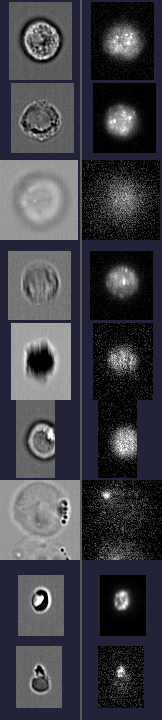
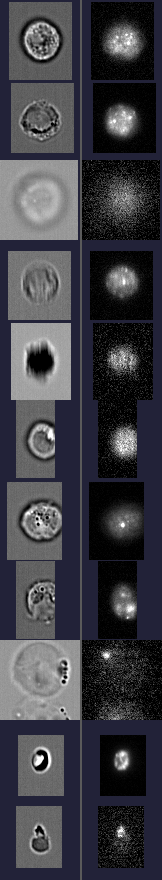
Clearer cut-off rule: a highlighted note on the examples page and two more cut-off examples (a sliver and part of a cell)

diff --git a/index.html b/index.html
@@ -82,6 +82,7 @@ input[type=text] { font: inherit; width: 100%; padding: 12px 14px; border-radius
 /* guide and leaderboard */
 .page { display: flex; flex-direction: column; gap: 14px; min-height: 0; flex: 1; }
 .scroll { flex: 1; min-height: 0; overflow-y: auto; display: grid; align-content: start; gap: 10px; padding-bottom: 4px; }
+.note { background: color-mix(in srgb, var(--toss) 10%, var(--surface)); border: 1px solid color-mix(in srgb, var(--toss) 40%, var(--line)); border-radius: 12px; padding: 10px 14px; font-size: 0.92rem; line-height: 1.35; }
 .ex { display: grid; grid-template-columns: 58% 1fr; gap: 12px; align-items: center; background: var(--surface); border: 1px solid var(--line); border-radius: 14px; padding: 8px; }
 .ex p { font-size: 0.92rem; line-height: 1.3; display: flex; flex-direction: column; gap: 6px; align-items: flex-start; }
 .board { display: grid; gap: 6px; list-style: none; margin: 0; padding: 0; counter-reset: rank; }
@@ -152,7 +153,7 @@ input[type=text] { font: inherit; width: 100%; padding: 12px 14px; border-radius
     <p class="muted">One cell at a time from an imaging flow cytometer: brightfield on the left, fluorescence (DNA damage foci) on the right. Swipe the card or tap the buttons. Pinch to zoom.</p>
     <div class="rules">
       <span class="chip keep">Keep →</span><span>A single whole cell, sharp and in focus.</span>
-      <span class="chip toss">← Toss</span><span>Blurry or streaked, cut off, two cells, a bead or debris.</span>
+      <span class="chip toss">← Toss</span><span>Blurry or streaked, cut off by the edge of the image, two cells, a bead or debris.</span>
       <span class="chip unsure">↑ Not sure</span><span>You really can't decide.</span>
     </div>
     <form class="field" id="nameForm">
@@ -166,7 +167,8 @@ input[type=text] { font: inherit; width: 100%; padding: 12px 14px; border-radius
 
   <section class="page" id="guide" hidden>
     <h1>What you'll see</h1>
-    <p class="muted">Judge the whole image. A cell that's cut off or stuck to another one gets tossed even when it's sharp. Some cards show the brightfield alone; judge those from the brightfield. Every cell comes back once, flipped or turned; just answer it again.</p>
+    <p class="muted">Judge the whole image. Some cards show the brightfield alone; judge those from the brightfield. Every cell comes back once, flipped or turned; just answer it again.</p>
+    <p class="note"><strong>Cut off = toss, even when it's sharp.</strong> If any part of the cell runs off the edge of the image, whether a sliver or half of it, toss it. Dark blue areas are outside the camera's view: a cell that runs into one is cut off too.</p>
     <div class="scroll" id="examples"></div>
     <button class="go" type="button" id="beginBtn">Start labelling</button>
   </section>
@@ -248,6 +250,7 @@ input[type=text] { font: inherit; width: 100%; padding: 12px 14px; border-radius
   const GUIDE = [
     ["Sharp", "keep"], ["Sharp, irregular shape", "keep"], ["Out of focus: soft and hazy", "toss"],
     ["Streaked by motion", "toss"], ["Badly smeared", "toss"], ["Cut off at the edge, even if sharp", "toss"],
+    ["Only a sliver cut off: still toss", "toss"], ["Part of the cell runs off the image", "toss"],
     ["Two cells, or a clump", "toss"], ["Bead or dead cell", "toss"], ["Debris", "toss"],
   ];
   const CHEERS = ["You've got flow!", "Focus pocus!", "Cell yeah!", "Sharp eye!", "In the zone of focus",
